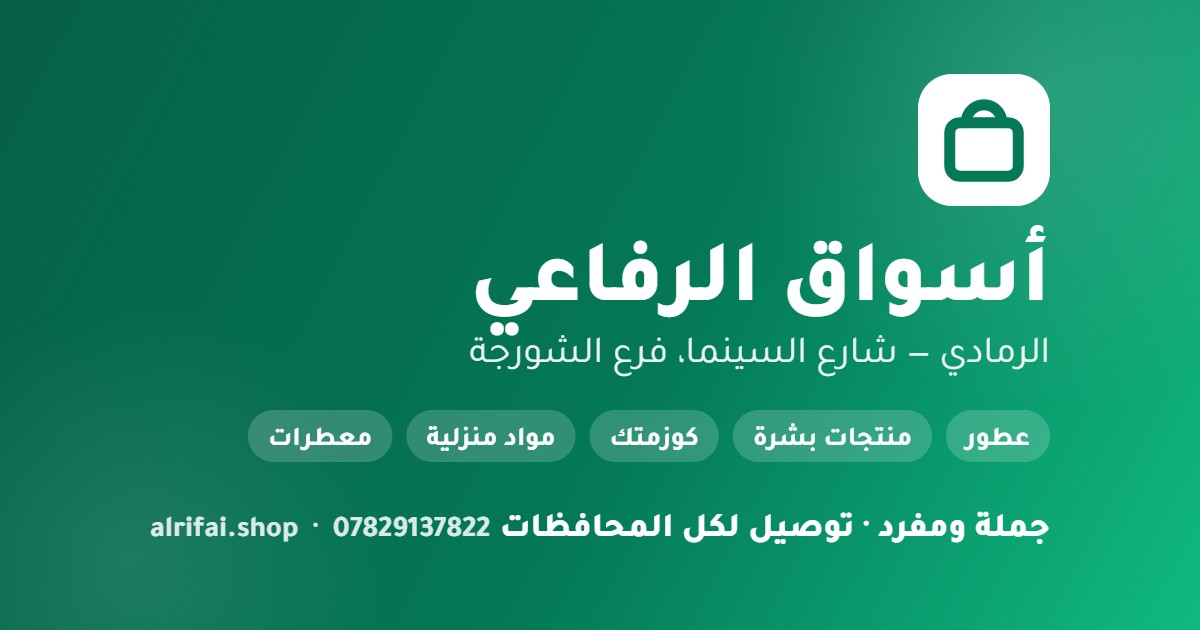
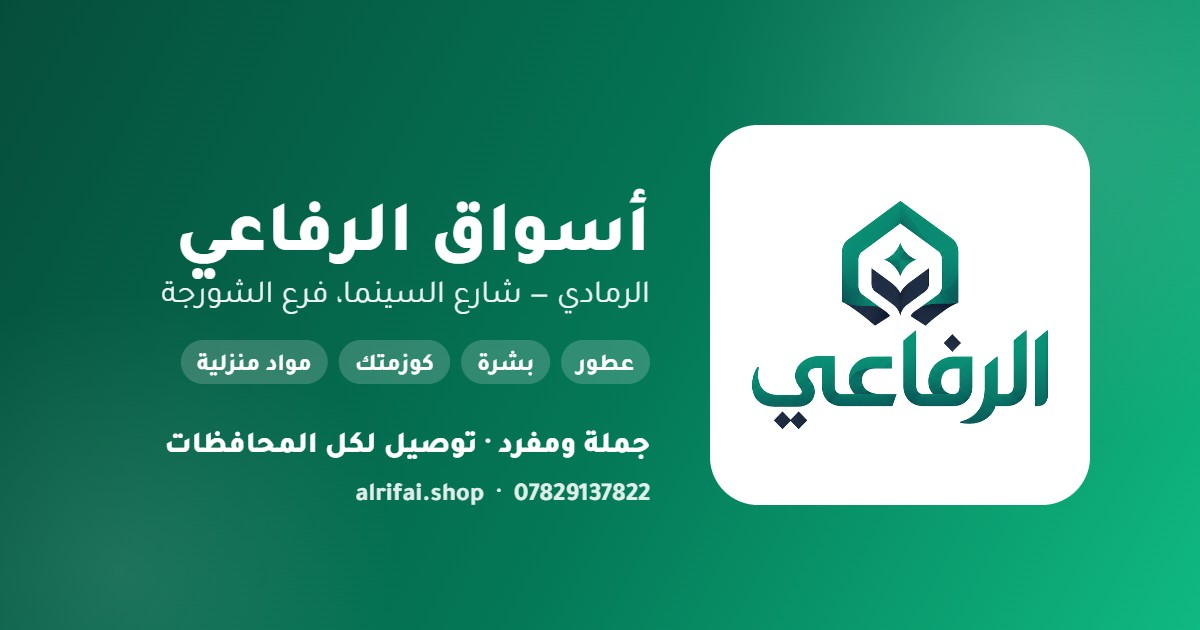
اعتماد شعار المتجر في الأيقونات والواجهة وبطاقة الرابط
- المصدر logo.png، واستُخرجت منه: الشعار كاملاً بخلفية شفافة، والرمز
  السداسي وحده (فُصل بكشف الفجوة بين الرمز والاسم آلياً لا بقصّ تقديري).
- أيقونات PWA 192/512 وmaskable وapple-touch وfavicon من الرمز نفسه.
- صفحة المتجر الأولى تعرض الشعار كاملاً، ورأس اللوحة يعرض الرمز.
- og.jpg أُعيدت بالشعار الحقيقي، مع تقليص تلقائي لحجم الخط حتى يتّسع
  كل نص داخل حدود الصورة.
- حُذفت أيقونات قالب Vite الافتراضية.

Changed region(s): [[0.1233, 0.0905, 0.925, 0.8746], [0.1233, 0.8143, 0.2467, 0.8746]]

diff --git a/src/pages/storefront/ModeSelect.jsx b/src/pages/storefront/ModeSelect.jsx
@@ -16,7 +16,9 @@ export default function ModeSelect() {
   return (
     <main className="mx-auto min-h-dvh max-w-md px-5 pb-10 pt-10">
       <header className="animate-fade-up text-center">
-        <img src={`${import.meta.env.BASE_URL}icon-192.png`} alt="" className="mx-auto size-20 rounded-3xl shadow-lg shadow-brand-600/20" />
+        <span className="mx-auto flex w-40 items-center justify-center rounded-3xl bg-white p-4 shadow-lg shadow-brand-600/15 ring-1 ring-slate-900/5">
+          <img src={`${import.meta.env.BASE_URL}logo.png`} alt="أسواق الرفاعي" className="w-full" />
+        </span>
         <h1 className="mt-4 text-3xl font-extrabold tracking-tight">{STORE.name}</h1>
         <p className="mt-1.5 text-sm text-slate-500">{STORE.addressShort}</p>
 

diff --git a/src/pages/dashboard/Layout.jsx b/src/pages/dashboard/Layout.jsx
@@ -29,7 +29,7 @@ export default function Layout() {
     <div className="min-h-dvh">
       <header className="glass sticky top-0 z-30">
         <div className="mx-auto flex max-w-5xl items-center gap-3 px-4 pt-3">
-          <img src={`${import.meta.env.BASE_URL}icon-192.png`} alt="" className="size-8 rounded-xl" />
+          <img src={`${import.meta.env.BASE_URL}logo-mark.png`} alt="" className="size-9" />
           <span className="font-extrabold">أسواق الرفاعي</span>
 
           <span className="ms-auto flex items-center gap-1.5 rounded-full bg-white px-2.5 py-1.5 text-[11px] font-bold ring-1 ring-slate-900/5">

diff --git a/vite.config.js b/vite.config.js
@@ -13,7 +13,7 @@ export default defineConfig({
     tailwindcss(),
     VitePWA({
       registerType: 'autoUpdate',
-      includeAssets: ['favicon.svg', 'apple-touch-icon.png'],
+      includeAssets: ['favicon.png', 'apple-touch-icon.png', 'og.jpg'],
       workbox: {
         // ملفات الواجهة فقط تُخزَّن مؤقتاً. طلبات Supabase لا تُخزَّن إطلاقاً
         // حتى لا يرى الزبون سعراً أو رصيداً قديماً.

diff --git a/index.html b/index.html
@@ -2,7 +2,7 @@
 <html lang="ar" dir="rtl">
   <head>
     <meta charset="UTF-8" />
-    <link rel="icon" type="image/svg+xml" href="/favicon.svg" />
+    <link rel="icon" type="image/png" href="/favicon.png" />
     <link rel="apple-touch-icon" href="/apple-touch-icon.png" />
     <meta name="viewport" content="width=device-width, initial-scale=1.0, viewport-fit=cover" />
     <meta name="theme-color" content="#059669" />

diff --git a/README.md b/README.md
@@ -25,6 +25,13 @@ React (Vite) · Tailwind CSS v4 · Lucide React · html5-qrcode · Supabase (Pos
 بعد انتشار السجلات (دقائق إلى ساعة) يُصدر GitHub شهادة HTTPS تلقائياً،
 ثم يُفعَّل «Enforce HTTPS» من إعدادات Pages.
 
+### الشعار والأيقونات
+المصدر `logo.png` في جذر المشروع (1254×1254). المشتقات في `public/`:
+`logo.png` (الشعار كاملاً بخلفية شفافة) · `logo-mark.png` (الرمز وحده) ·
+`icon-192/512.png` و`icon-maskable-512.png` (أيقونات PWA) ·
+`apple-touch-icon.png` · `favicon.png`.
+لتغيير الشعار: استبدل `logo.png` وأعد توليد المشتقات بنفس المقاسات.
+
 ### صورة معاينة الرابط
 `public/og.jpg` (1200×630) مع وسوم Open Graph في `index.html` — تظهر بطاقة
 المتجر عند مشاركة الرابط في واتساب وتيليغرام وفيسبوك. لتغييرها: استبدل الصورة
